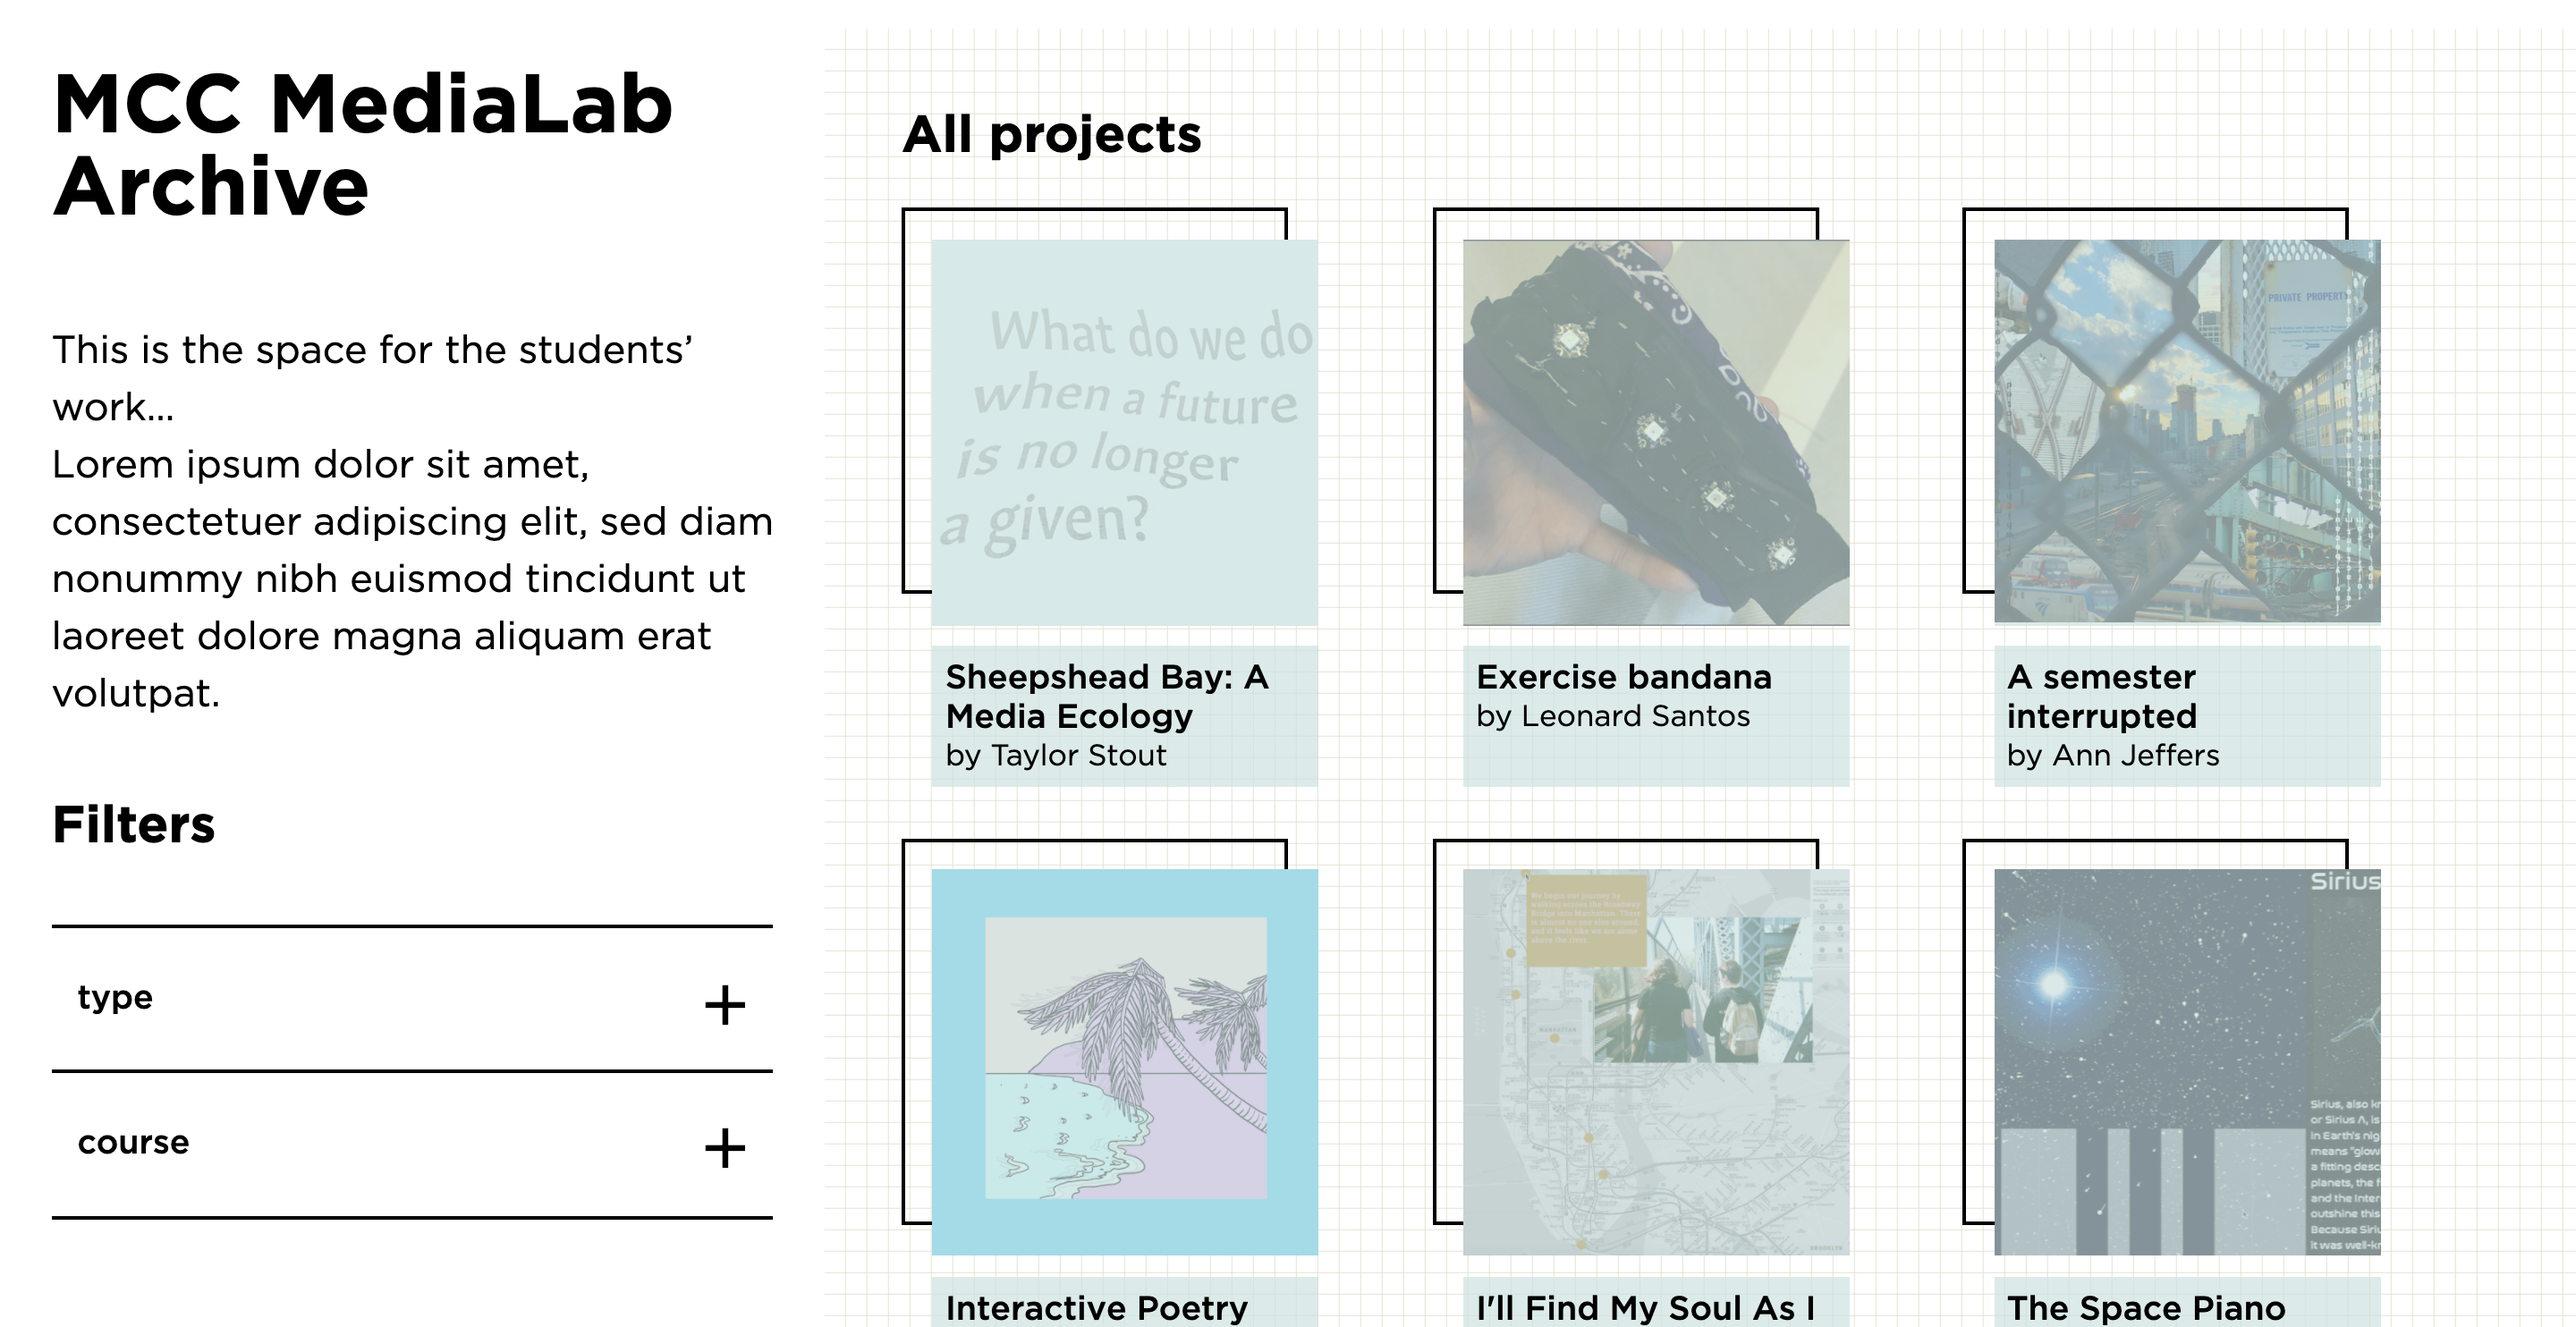
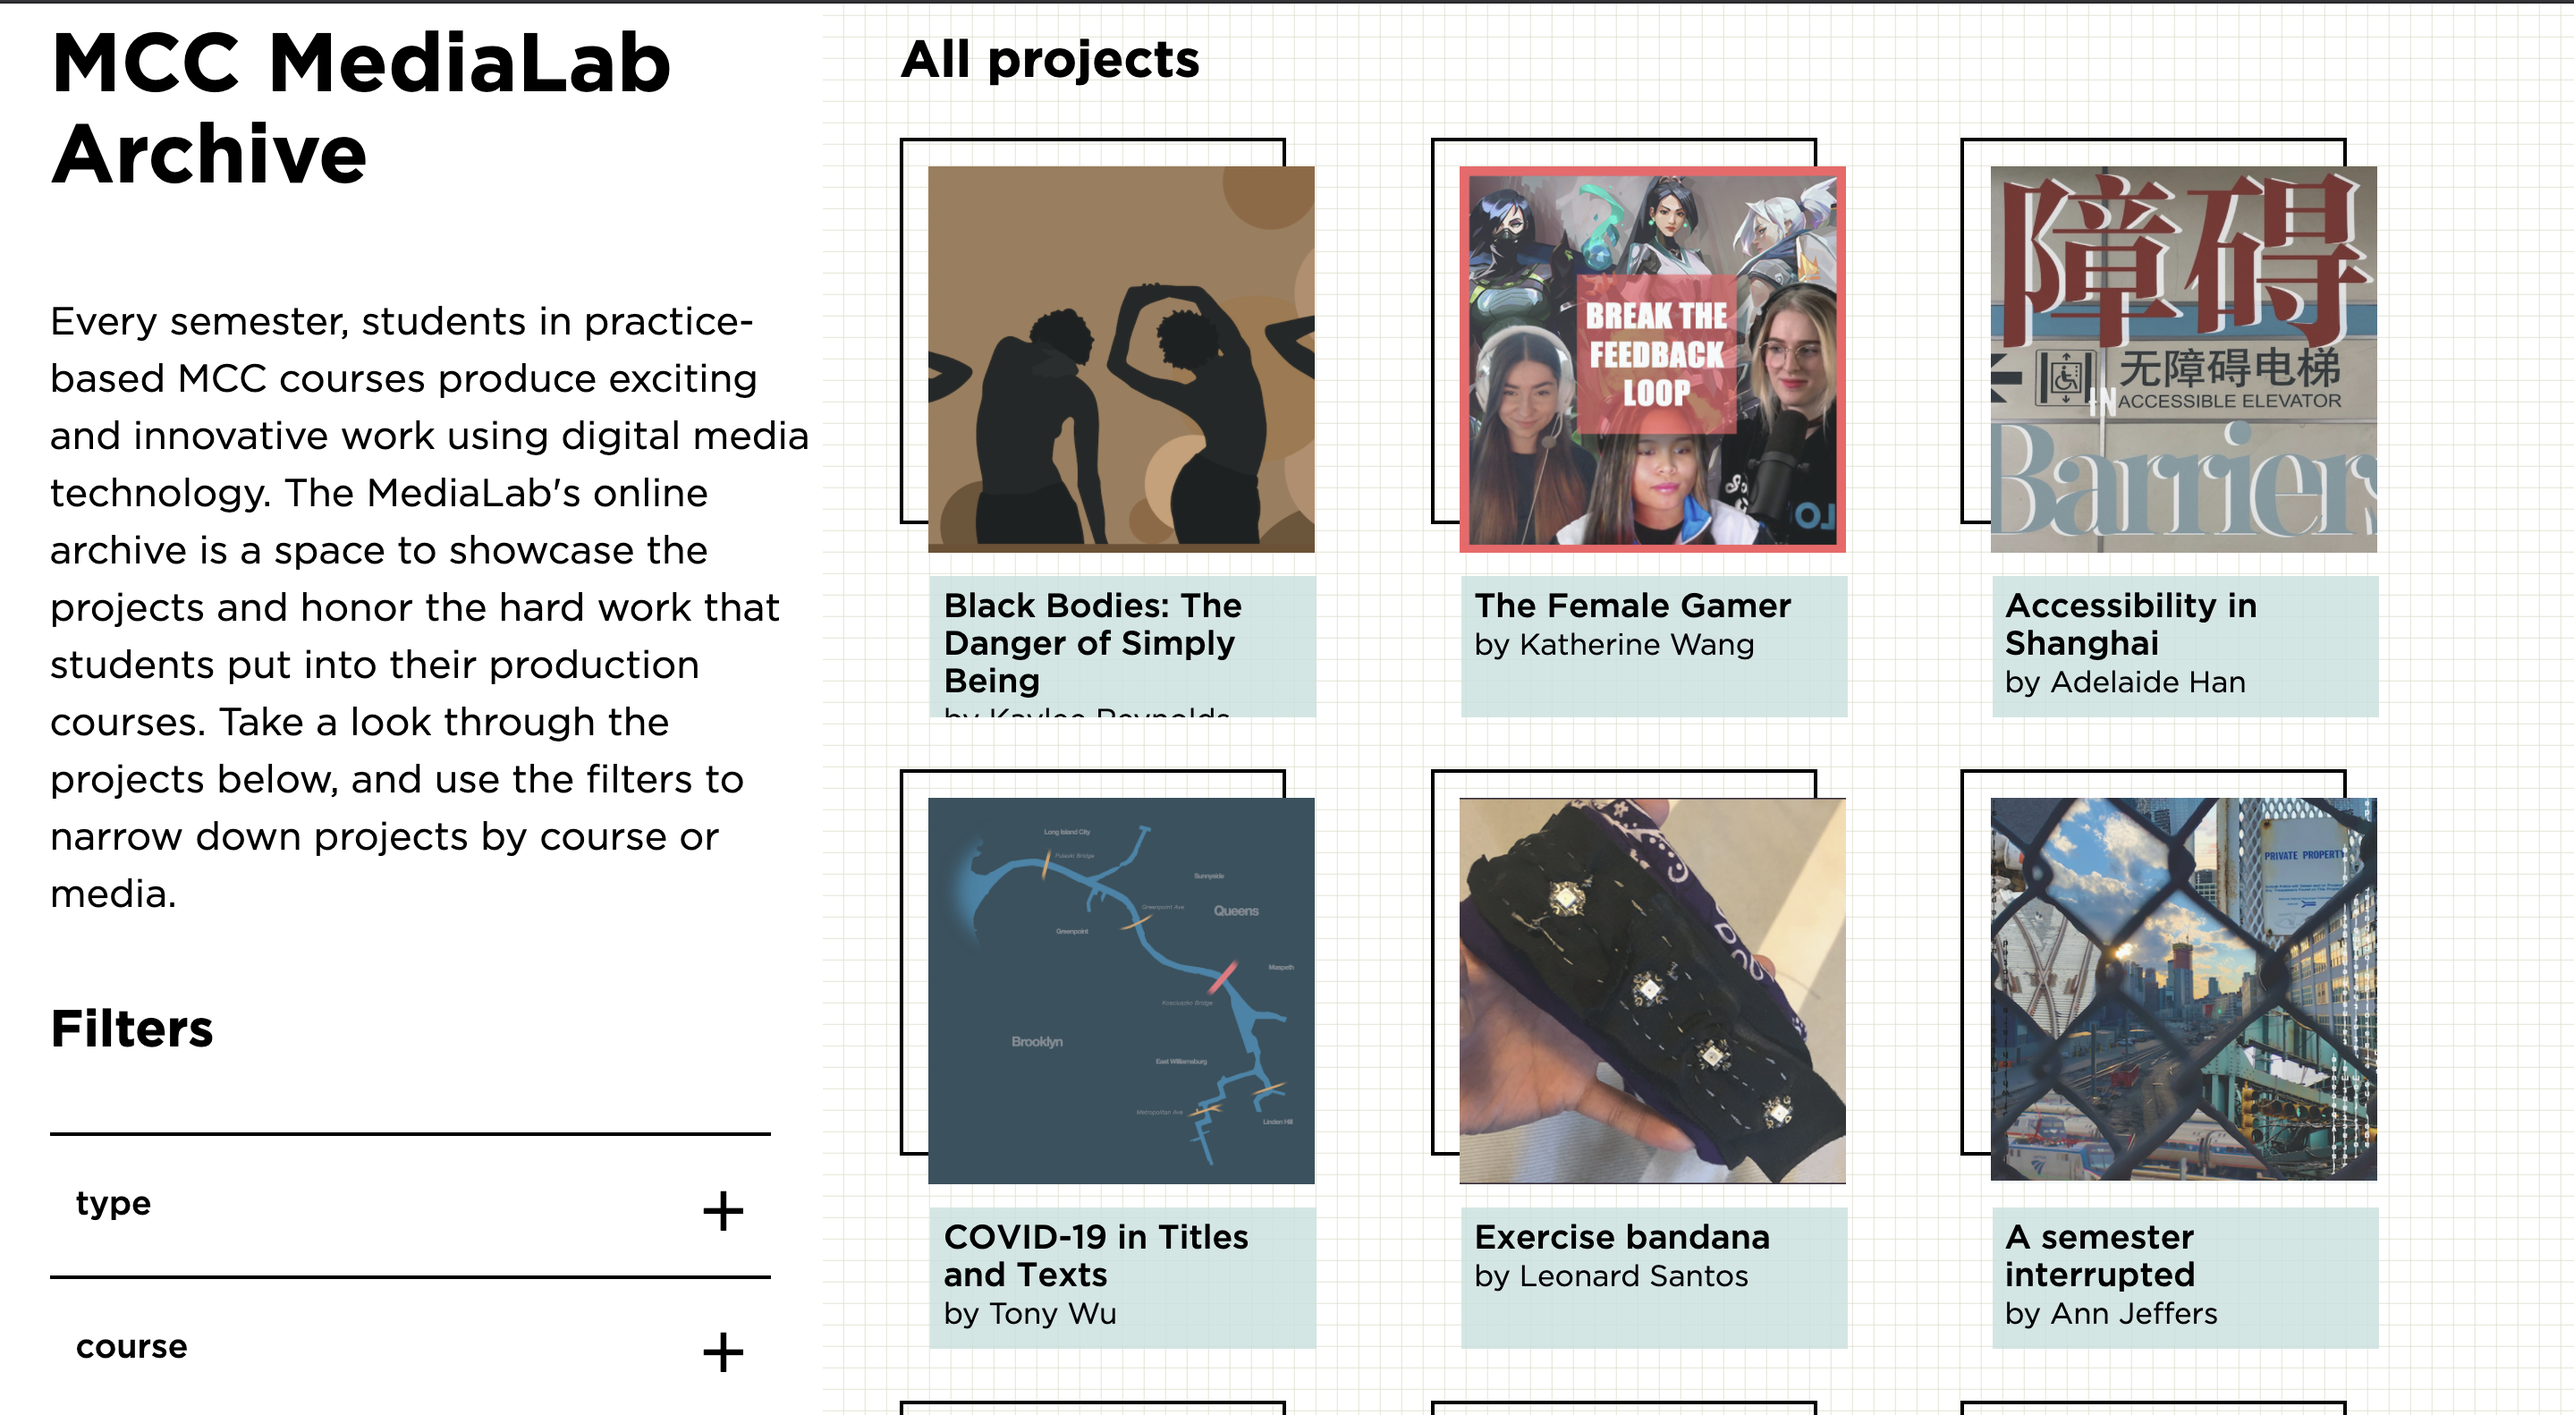
Archive link addition

diff --git a/medialab/index.html b/medialab/index.html
@@ -55,13 +55,12 @@
       </div>
 
       <img src="archive.png" alt="website sceeenshot">
+			<a class="extlink" href="http://www.composingdigitalmedia.org/mcc_media_lab/archive" target="_blank">see the page &gt;</a>
+
       <div class="text">
         <p>
-          The project is at its final stages of development.
-        </p>
-        <p>
-          Designed, prototyped and developed by me, this page will serve as an archive for
-          digital work by students across the department. It includes a js-based filtering system that
+          Designed, prototyped and developed by me, this page serves as an archive for the amazing
+          digital work by students across the department. For this project, I have created a js-based filtering system that
           helps the user easily find a project based on a media type and course it belongs to.
         </p>
 
